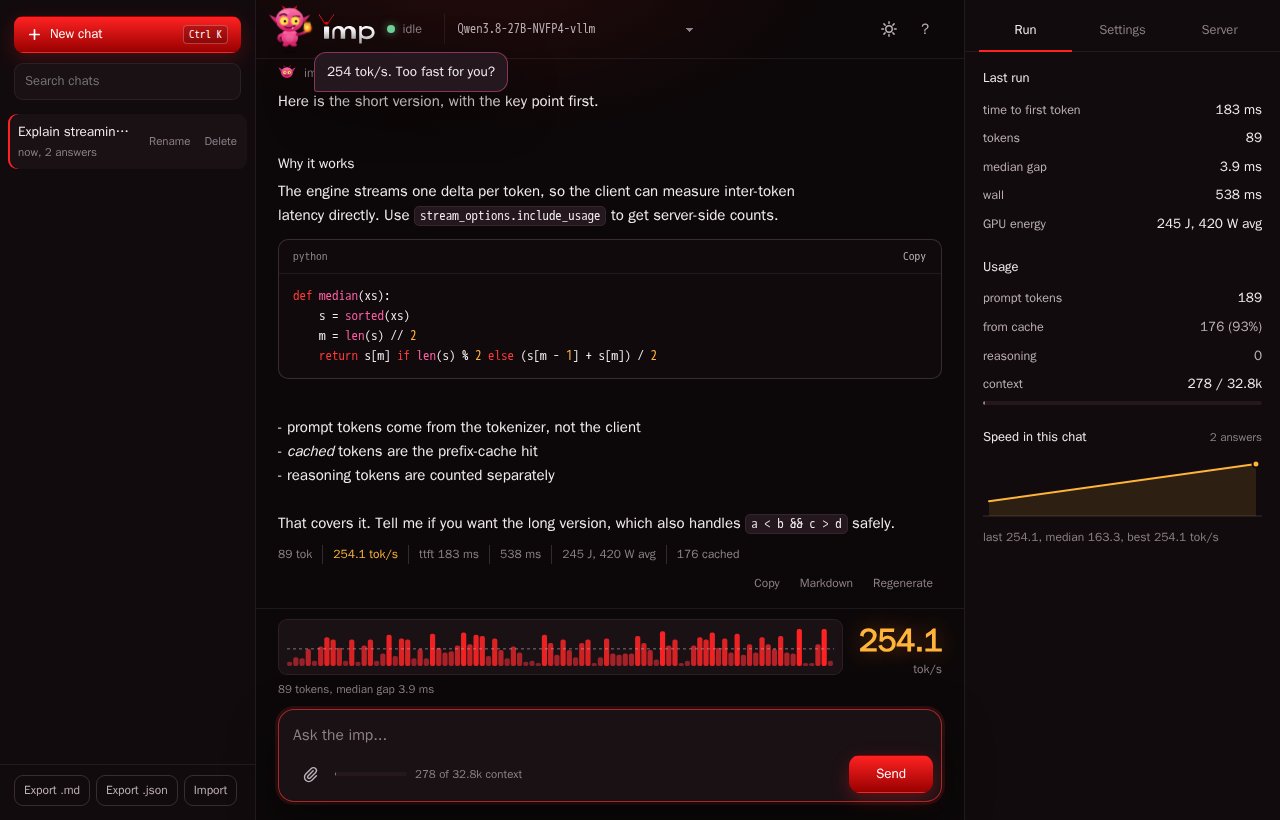
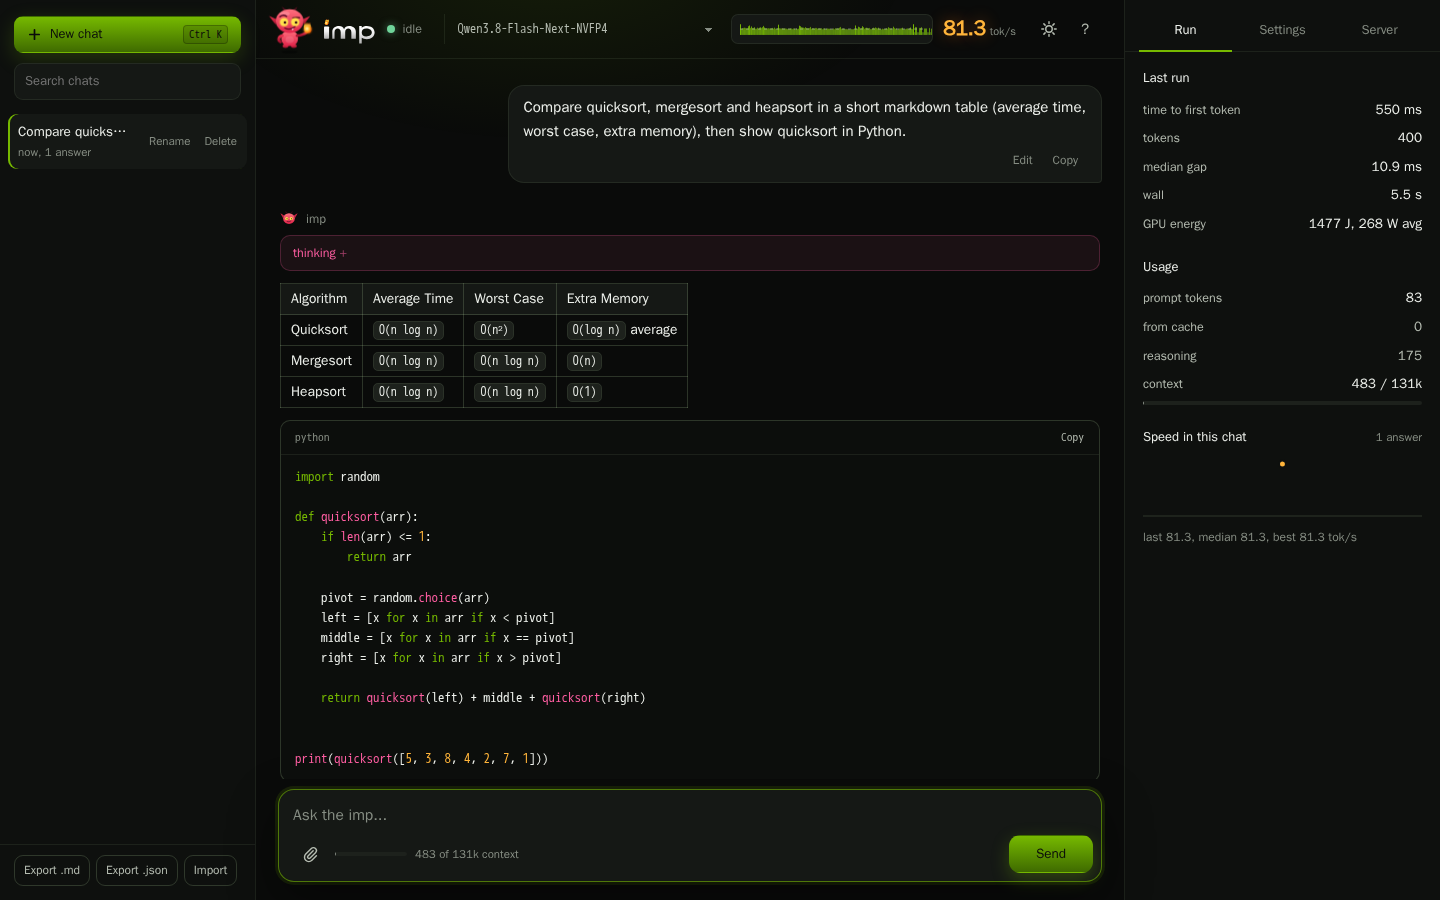
docs(webui): screenshots of the new UI from a live server; two renderer fixes (#2795)
- docs/webui.png (replaced), webui-light.png, webui-server.png,
  webui-mobile.png: one live chat on Qwen3.8-Flash-Next NVFP4, RTX 5090,
  81.3 tok/s, TTFT 550 ms; README shows webui.png, QUICKSTART the four with
  a PROV block and two new feature rows (markdown, live speed).
- tools/imp-server/webui/dev/live_shots.py: the capture, page from the
  working tree via page.route, API from the server.
- Renderer: table cells keep words whole (overflow-wrap: normal; the 390 px
  capture showed "Algorith m"); backslash escapes print the character
  outside code. 2 new markup_test.py cases, the escape case fails on main.

Claude-Session: https://claude.ai/code/session_014JoJHW3Av9R35k1RVMhihi

diff --git a/tools/imp-server/webui/index.html b/tools/imp-server/webui/index.html
@@ -333,7 +333,7 @@
   .body a { color: var(--accent); text-decoration: underline; text-underline-offset: 2px; }
   .body table { border-collapse: collapse; margin: 10px 0; font-size: 0.92em; white-space: normal; display: block; overflow-x: auto; max-width: 100%; }
   .body hr { border: 0; border-top: 1px solid var(--line2); margin: 14px 0; }
-  .body th, .body td { border: 1px solid var(--line2); padding: 4px 10px; text-align: left; }
+  .body th, .body td { border: 1px solid var(--line2); padding: 4px 10px; text-align: left; overflow-wrap: normal; }
   .body th { font-weight: 600; background: var(--surface); }
   .body code { font-family: var(--mono); font-size: 0.86em; background: var(--surface2); border: 1px solid var(--line); border-radius: 5px; padding: 1px 5px; }
   .body pre {
@@ -1824,6 +1824,9 @@ function markup(src) {
   // with white-space: pre-wrap it would otherwise double the gap.
   s = s.replace(/^#{1,6}[ \t]+(.+?)[ \t]*(?:\n+|$)/gm, "<h4>$1</h4>");
   s = s.replace(/^[ \t]*(?:-[ \t]*){3,}(?:\n+|$)|^[ \t]*(?:\*[ \t]*){3,}(?:\n+|$)|^[ \t]*(?:_[ \t]*){3,}(?:\n+|$)/gm, "<hr>");
+  // Backslash escapes (\* \_ \# ...) print the character; inline code keeps them.
+  s = s.split(/(<code>[\s\S]*?<\/code>)/).map((part, k) => k % 2 ? part :
+        part.replace(/\\([\\`*_{}[\]()#+\-.!~])/g, "$1")).join("");
   s = s.replace(MATH_SLOT, (_, i) => maths[i]);
   s = s.replace(FENCE_SLOT, (_, i) => codeBlock(fences[i][0], fences[i][1]));
   return s;

diff --git a/tools/imp-server/webui/dev/live_shots.py b/tools/imp-server/webui/dev/live_shots.py
@@ -1,0 +1,57 @@
+#!/usr/bin/env python3
+"""Docs screenshots (docs/webui*.png) against a live imp-server: one real chat, four captures.
+
+The page itself comes from the mounted index.html (page.route), the API from the server, so the
+captures show the working tree's UI with real numbers without restarting the server.
+
+    docker run --rm --network host -v "$PWD/tools/imp-server/webui":/ui:ro -v "$PWD/docs":/shots \
+        mcr.microsoft.com/playwright/python:v1.55.0-noble \
+        bash -c 'pip install -q playwright==1.55.0 && python /ui/dev/live_shots.py http://localhost:8080/'
+"""
+import sys
+import time
+
+from playwright.sync_api import sync_playwright
+
+URL = sys.argv[1] if len(sys.argv) > 1 else "http://localhost:8080/"
+OUT = "/shots"
+IDLE_JS = """() => /idle|stopped|error|no server|no model/.test(document.getElementById("state")?.textContent || "")"""
+PROMPT = ("Compare quicksort, mergesort and heapsort in a short markdown table "
+          "(average time, worst case, extra memory), then show quicksort in Python.")
+
+
+def answer(page, text):
+    page.fill("#prompt", text)
+    page.press("#prompt", "Enter")
+    time.sleep(1.5)
+    page.wait_for_function(IDLE_JS, timeout=300000)
+    time.sleep(1.2)
+
+
+with sync_playwright() as p:
+    b = p.chromium.launch()
+    page = b.new_page(viewport={"width": 1440, "height": 900}, device_scale_factor=1)
+    html = open("/ui/index.html", encoding="utf-8").read()
+    page.route(URL, lambda r: r.fulfill(status=200, content_type="text/html; charset=utf-8", body=html))
+    page.emulate_media(color_scheme="dark")
+    page.goto(URL)
+    page.evaluate("() => localStorage.clear()")
+    page.reload()
+    page.wait_for_function(IDLE_JS, timeout=120000)
+    answer(page, PROMPT)
+    page.evaluate("() => { document.getElementById('log').scrollTop = 0; }")
+    time.sleep(0.4)
+    page.screenshot(path=f"{OUT}/webui.png")
+    page.click("#tab-srv")
+    time.sleep(3.5)
+    page.screenshot(path=f"{OUT}/webui-server.png")
+    page.click("#tab-run")
+    page.emulate_media(color_scheme="light")
+    time.sleep(0.4)
+    page.screenshot(path=f"{OUT}/webui-light.png")
+    page.emulate_media(color_scheme="dark")
+    page.set_viewport_size({"width": 390, "height": 844})
+    time.sleep(0.5)
+    page.screenshot(path=f"{OUT}/webui-mobile.png")
+    b.close()
+print("ok")

diff --git a/tools/imp-server/webui/dev/markup_test.py b/tools/imp-server/webui/dev/markup_test.py
@@ -37,6 +37,9 @@ CASES = [
      and "<thead><tr><th>Kriterium</th><th>Wert</th></tr></thead>" in o),
     ("rule", "a\n\n---\n\nb", lambda o: "<hr>" in o and "---" not in o),
     ("star rule", "a\n\n***\n\nb", lambda o: "<hr>" in o),
+    ("backslash escape prints the character", "\\* stack space, \\_x\\_",
+     lambda o: "\\" not in o and "* stack space, _x_" in o),
+    ("backslash escape inside code stays", "`a\\*b`", lambda o: "<code>a\\*b</code>" in o),
     ("inline math", "so $x^2 + \\alpha$ holds",
      lambda o: 'class="math"' in o and "<sup>2</sup>" in o and "α" in o),
     ("dollar amounts stay text", "costs $5 and $10 today",

diff --git a/docs/QUICKSTART.md b/docs/QUICKSTART.md
@@ -147,6 +147,8 @@ Expected: an explanation of Rayleigh scattering, written at the single-stream ra
 | sampling | temperature, top_p, top_k, min_p, penalties, seed, max tokens; an empty field is not sent |
 | edit, regenerate, continue | edit a user turn and resend from there; continue a `finish_reason: length` answer as a follow-up turn |
 | code and math | syntax colours, language label, copy; `$..$`, `$$..$$`, `\(..\)` as Unicode math |
+| markdown | headings, tables (a heading right above one stays outside it), `---` rules, `\*` escapes, links |
+| live speed | header: tok/s of the running answer and one bar per token (bar height = gap to the previous token); below 900 px the number only |
 | images | file picker, drag and drop, paste; sent as `image_url` data URIs |
 | end thinking | button while the model reasons: `POST /v1/requests/{id}/end_thinking` |
 | token probabilities | `logprobs` + `top_logprobs: 5`, tokens coloured by probability, alternatives on hover |
@@ -156,11 +158,16 @@ Expected: an explanation of Rayleigh scattering, written at the single-stream ra
 | structured output | `response_format` `json_object` or a pasted `json_schema`, parsed before sending |
 | prompt size | draft tokens from `POST /tokenize` (skipped while `/health` reports `idle_suspended`), context bar |
 | server tab | `GET /metrics` every 3 s while open: queue, KV blocks, VRAM, `imp_gpu_power_watts` when exported |
-| energy per answer | `imp_gpu_energy_joules_total` read before and after: J and W avg per turn; card-wide, so concurrent work counts |
+| energy per answer | `imp_gpu_energy_joules_total` read before and after: J and W avg per turn; card-wide, so concurrent work counts; the server tab shows the total since server start |
 | speed history | tok/s of every answer in the chat as a sparkline |
 | keys, themes, mobile | `Enter`, `Shift+Enter`, `Esc`, `/`, `?`; dark and light; drawers below 1180 and 900 px |
 
-<img src="webui.png" width="800" alt="the built-in web UI after one answer">
+<img src="webui.png" width="800" alt="the built-in web UI: Qwen3.8-Flash-Next answering with a table and code">
+
+<img src="webui-light.png" width="392" alt="light theme"> <img src="webui-server.png" width="392" alt="server tab: queue, KV blocks, VRAM, GPU power and energy"> <img src="webui-mobile.png" width="180" alt="390 px phone layout">
+
+[PROV: commit=2f7574d5 date=2026-10-18 hw=RTX5090 model=Qwen3.8-Flash-Next-NVFP4 quant=NVFP4 path=server-api
+       cmd=`tools/imp-server/webui/dev/live_shots.py` n=1 note=one chat (sort table + quicksort), 81.3 tok/s, TTFT 550 ms]
 
 **Anthropic clients.** The same server answers `/v1/messages` natively. Point `ANTHROPIC_BASE_URL` at it; an Anthropic-shaped client works unchanged, no proxy.
 

diff --git a/README.md b/README.md
@@ -109,7 +109,7 @@ curl -s http://localhost:8090/health | jq -c '{status,kv_blocks_total,kv_capacit
 **Ready** after about 64 s: `Server listening on http://0.0.0.0:8090` in `docker logs imp-server`, `/health` prints `{"status":"ok","kv_blocks_total":2025,"kv_capacity_tokens":32400}`. Image v0.46.0 or later; RAM, measurements: [`docs/QUICKSTART.md`](docs/QUICKSTART.md#qwen38-flash-next).
 ## Using it
 
-- **In the browser:** <http://localhost:8080>, the built-in chat: saved conversations, sampling controls, live server metrics, GPU energy per answer ([tour](docs/QUICKSTART.md#4-or-use-the-other-surfaces)).
+- **In the browser:** <http://localhost:8080>, the built-in chat: saved conversations, sampling controls, live tok/s, server metrics, GPU energy per answer ([tour](docs/QUICKSTART.md#4-or-use-the-other-surfaces)).<br><img src="docs/webui.png" width="720" alt="the built-in web UI: Qwen3.8-Flash-Next answering with a table and code">
 - **Your apps and coding agents:** an "OpenAI-compatible" provider with base URL **`http://localhost:8080/v1`**; Anthropic apps: `http://localhost:8080/v1/messages`. The model id is the file or directory name (`GET /v1/models`).
 - **Tool calling, JSON output, streaming** on every API dialect; which fields work: [`docs/API.md`](docs/API.md).
 - **Thinking models:** the reasoning comes back in `reasoning_content`, the answer in `content`.

diff --git a/CHANGELOG.md b/CHANGELOG.md
@@ -23,6 +23,7 @@ All notable changes since v0.6. Format loosely follows [Keep a Changelog](https:
 - `/metrics`: `imp_gpu_power_watts` and `imp_gpu_energy_joules_total` from NVML (`dlopen`, absent without libnvidia-ml). A 60-token Qwen3-4B Q8_0 chat reads 18.4 J on the driver counter.
 
 ### Changed
+- Web UI: NVIDIA green palette (red kept for warnings), the imp mascot as logo, tok/s readout moved from above the composer into the header; markdown tables keep words whole in narrow cells and `\*` escapes print the character. Screenshots: `docs/webui*.png`.
 - VRAM planner keeps one measured margin (library reserve + 4 % allocator headroom): `vram.reserve_floor_pct` 10 -> 0, `vram.kv_fraction` 0.8 -> 1.0, both stay opt-in. Qwen3.6-35B-A3B NVFP4 KV ceiling 118128 -> 143184 tokens; 9 of 10 models unchanged.
 - `--gpu-layers` turns on token recycling (width 8, multi-candidate verify up to 64 rows instead of 17) unless `speculative.token_recycling` is set: Qwen3-14B Q6_K `--gpu-layers 0`, prose 5.30 -> 7.22 tok/s, code rewrite 6.85 -> 9.80; greedy output byte-identical to speculation off.
 - Top-k sampling kernels select by radix instead of k rounds of block argmax: 66.77 -> 18.76 us per decode step (Qwen3-4B Q8_0, top-k 40), same sampled tokens (588 configs x 12 seeds byte-compared against the old kernels).

diff --git a/tools/imp-server/CLAUDE.md b/tools/imp-server/CLAUDE.md
@@ -1,8 +1,8 @@
 <!--
 layer: L3
 audience: agents
-verified: 2026-10-15
-commit: 18b480d7
+verified: 2026-10-18
+commit: 2f7574d5
 -->
 
 # tools/imp-server - the HTTP surface
@@ -38,6 +38,7 @@ make test-agents-external # real aider / Claude Code / OpenAI Agents SDK
 
 - CI job `Real API contract` runs the API tests against the built binary, no GPU.
 - Web UI without a GPU: `webui/dev/mock_server.py` (imp-shaped SSE per token) + `webui/dev/drive.py` (Python Playwright image `mcr.microsoft.com/playwright/python:v1.55.0-noble`, `markup_test.py` for the renderer); commands in the file headers.
+- Docs screenshots `docs/webui*.png`: `webui/dev/live_shots.py` against a running server, page from the working tree.
 - `tests/api/mock_server.py` sends the SSE body in one write: it does not exercise streaming.
 
 ## Pitfalls
